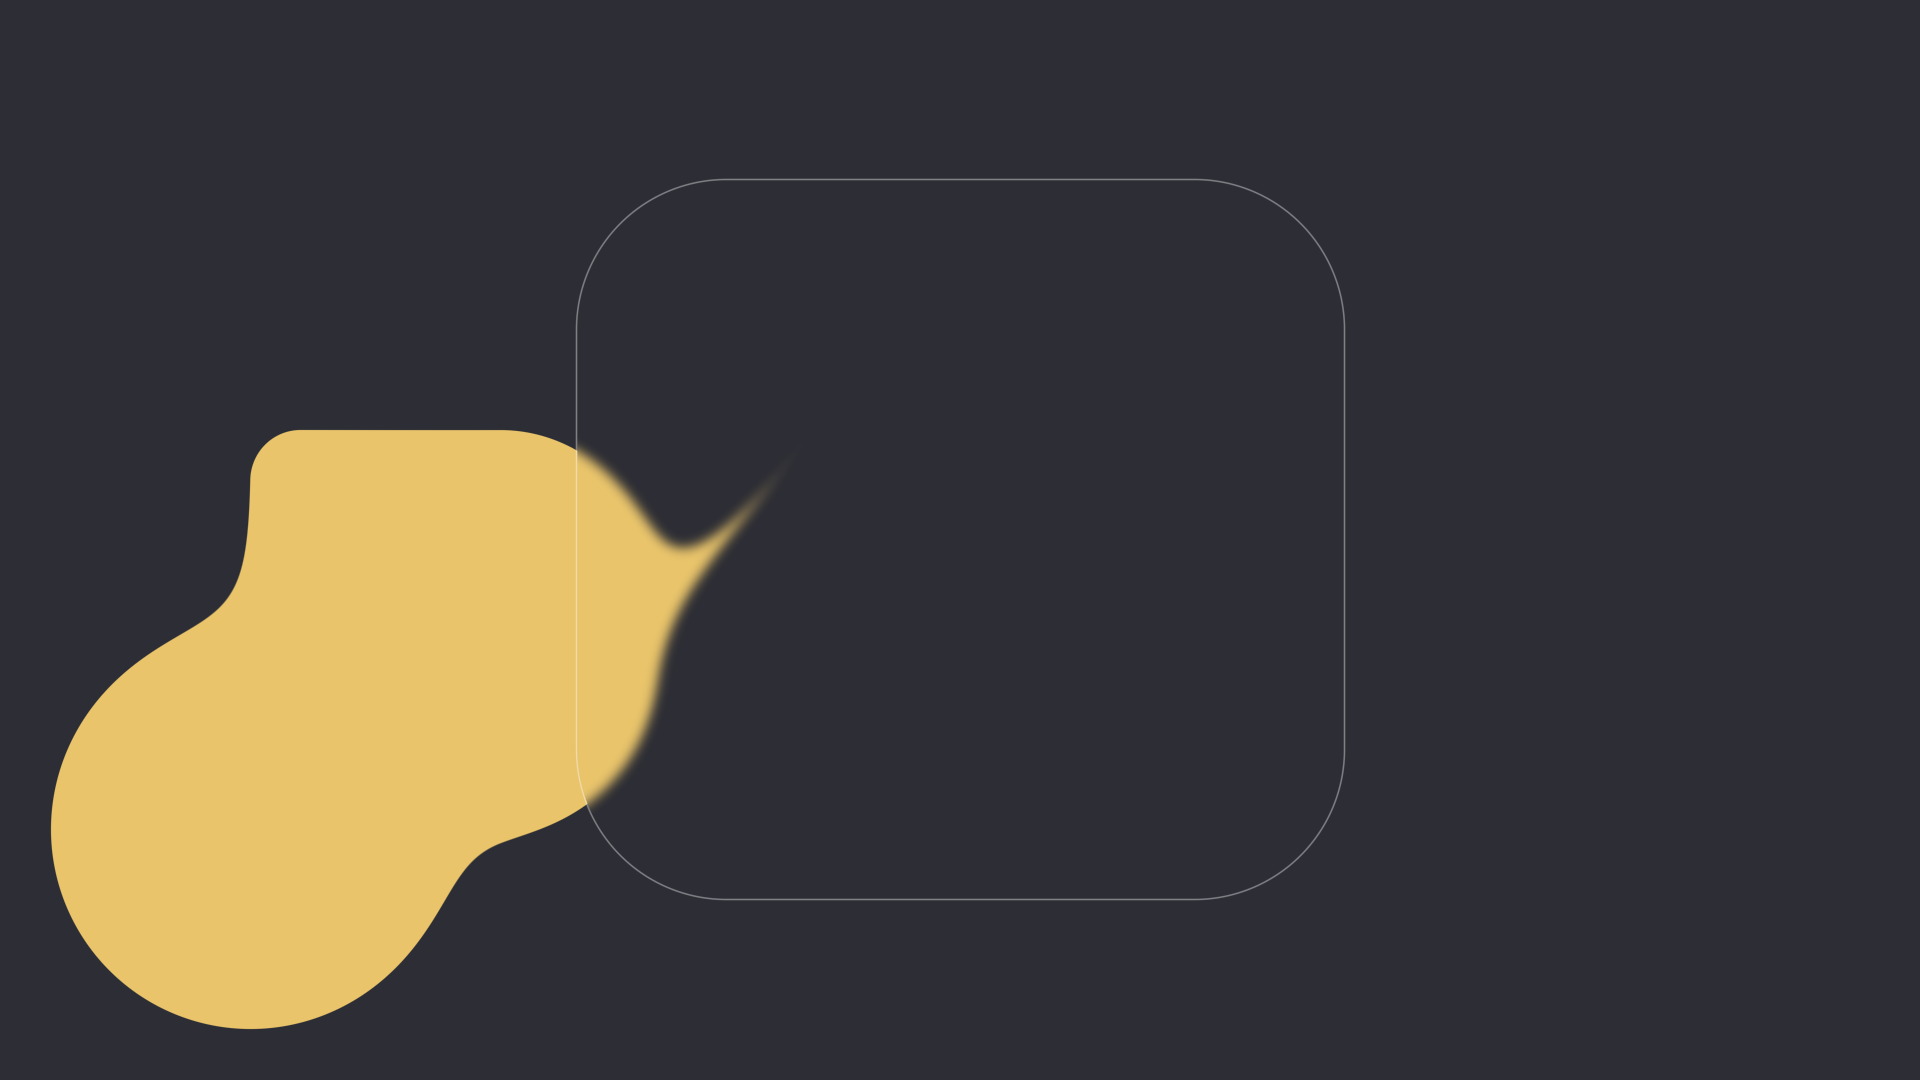
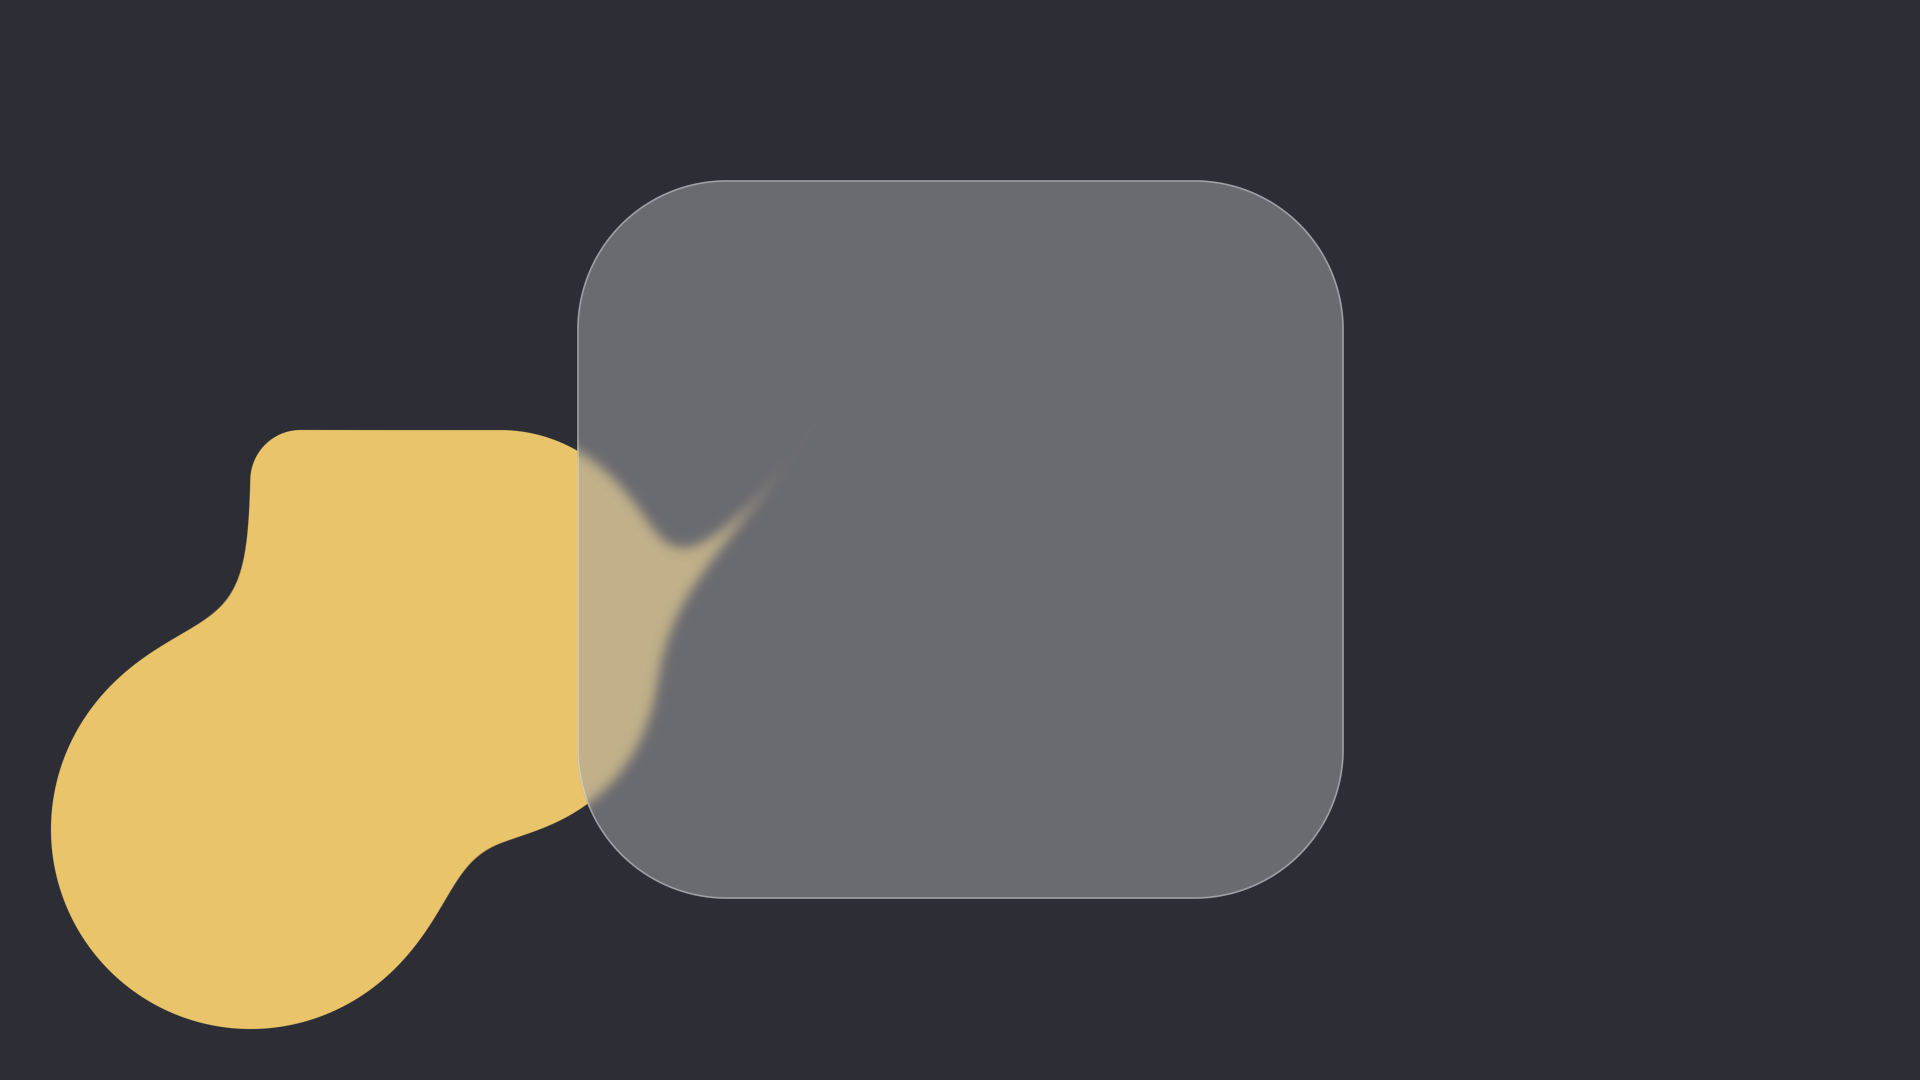
Add more examples, refactor code

Changed region(s): [[0.2812, 0.1528, 0.7188, 0.8556]]

diff --git a/sandbox.py b/sandbox.py
@@ -8,10 +8,10 @@ with Context(size) as ctx:
 
     bezier = ctx.bezier((900, 800), (700, 400), (350, 350))
 
-    union = ctx.smooth_min(rect, disc, k=0.025)
-    union = ctx.smooth_min(bezier, union, k=0.025)
+    glyph_sdf = ctx.smooth_min(rect, disc, k=0.025)
+    glyph_sdf = ctx.smooth_min(bezier, glyph_sdf, k=0.025)
 
-    layer = ctx.fill(union, hex_col("#e9c46a"), hex_col("#2C2D35"), 0)
+    layer = ctx.fill(glyph_sdf, hex_col("#e9c46a"), hex_col("#2C2D35"), 0)
     blur = ctx.blur(layer, 10)
 
     mask_sdf = ctx.rounded_rect((int(size[0] / 2), int(size[1] / 2)), (int(size[0] / 5), int(size[1] / 3)),
@@ -19,50 +19,32 @@ with Context(size) as ctx:
 
     mask_layer = ctx.fill(mask_sdf, (.0, .0, .0, 1.0), (1.0, 1.0, 1.0, 1.0), 0)
 
-    overlay_outline = ctx.outline(mask_sdf, (1.0, 1.0, 1.0, .25), (0.75, 0.75, 0.75, 0.0))
+    overlay_outline = ctx.outline(mask_sdf, (1.0, 1.0, 1.0, .25), (0.75, 0.75, 0.75, 0.0), inflate=-1.5)
+
+    glass = ctx.fill(mask_sdf, (44 / 255 + 0.15, 45 / 255 + 0.15, 53 / 255 + 0.15, 0.4), (0.0, 0.0, 0.0, 0.0), 0)
 
     masked = ctx.mask(blur, layer, mask_layer)
-    overlayed = ctx.overlay(overlay_outline, masked)
+    overlay = ctx.overlay(glass, masked)
+    overlay = ctx.overlay(overlay_outline, overlay)
 
-    overlayed.save("image1.png")
+    overlay.save("image1.png")
+    overlay.show()
 
+with Context((1920, 1080)) as ctx:
+    scale = 0.65
+    offset_x = 50
+    offset_y = 50
 
-def collinear(x1, y1, x2, y2, x3, y3):
-    area = abs(x1 * (y2 - y3) + x2 * (y3 - y1) + x3 * (y1 - y2))
+    glyph_sdf = ctx.glyph("M", scale, offset_x, offset_y)
 
-    return area <= 0.000000001
+    layer = ctx.fill(glyph_sdf, hex_col("#e9c46a"), (0.0, 0.0, 0.0, 0.0), 7.5)
+    bg = ctx.fill(glyph_sdf, hex_col("#2C2D35"), hex_col("#2C2D35"), 7.5)
 
+    mask = ctx.fill(glyph_sdf, (0.0, 0.0, 0.0, 1.0), (0.0, 0.0, 0.0, 0.0), 7.5)
+    shadow = ctx.blur(mask, 5)
+    with_shadow = ctx.overlay(layer, shadow)
 
-with Context(size) as ctx:
-    control_points = ctx.get_glyph("fonts/SFUIDisplay-Bold.ttf", "A")
+    overlay = ctx.overlay(with_shadow, bg)
 
-    scale = 0.45
-    offx = 250
-    offy = 150
-
-    union = None
-
-    for x, shape in enumerate(control_points):
-        for y, stroke in enumerate(shape):
-            ax, ay = stroke[0][0] * scale + offx, stroke[0][1] * scale + offy
-            bx, by = stroke[1][0] * scale + offx, stroke[1][1] * scale + offy
-            cx, cy = stroke[2][0] * scale + offx, stroke[2][1] * scale + offy
-
-            bezier = None
-
-            a = (ax, ay)
-            b = (bx, by)
-            c = (cx, cy)
-
-            if not collinear(ax, ay, bx, by, cx, cy):
-                bezier = ctx.bezier(a, b, c)
-            else:
-                bezier = ctx.line(a, c)
-
-            if y == 0 and x == 0:
-                union = bezier
-            else:
-                union = ctx.union(union, bezier)
-
-    layer = ctx.fill(union, hex_col("#e9c46a"), hex_col("#2C2D35"), 1.25)
-    layer.save("image2.png")
+    overlay.show()
+    overlay.save("image2.png")

diff --git a/framework/context.py b/framework/context.py
@@ -303,6 +303,33 @@ class Context:
 
         return Layer(initial=initial)
 
+    def glyph(self, glyph, scale, ox, oy, path="fonts/SFUIDisplay-Bold.ttf"):
+        control_points = self._get_glyph(path, glyph)
+
+        union_sdf = None
+
+        for x, shape in enumerate(control_points):
+            for y, stroke in enumerate(shape):
+                ax, ay = stroke[0][0] * scale + ox, stroke[0][1] * scale + oy
+                bx, by = stroke[1][0] * scale + ox, stroke[1][1] * scale + oy
+                cx, cy = stroke[2][0] * scale + ox, stroke[2][1] * scale + oy
+
+                a = (ax, ay)
+                b = (bx, by)
+                c = (cx, cy)
+
+                if not self._collinear(ax, ay, bx, by, cx, cy):
+                    bezier_sdf = self.bezier(a, b, c)
+                else:
+                    bezier_sdf = self.line(a, c)
+
+                if y == 0 and x == 0:
+                    union_sdf = bezier_sdf
+                else:
+                    union_sdf = self.union(union_sdf, bezier_sdf)
+
+        return union_sdf
+
     # Postprocessing
     def blur(self, layer: Layer, n=0):
         def initial():
@@ -382,7 +409,7 @@ class Context:
         return Layer(initial=initial)
 
     @staticmethod
-    def get_glyph(font_file_path, char):
+    def _get_glyph(font_file_path, char):
         font = describe.openFont(font_file_path)
         g = glyph.Glyph(ttfquery.glyphquery.glyphName(font, char))
         ttf_contours = g.calculateContours(font)
@@ -418,6 +445,12 @@ class Context:
             bezier_control_points.append(bezier_curves_control_points)
 
         return bezier_control_points
+
+    @staticmethod
+    def _collinear(x1, y1, x2, y2, x3, y3):
+        area = abs(x1 * (y2 - y3) + x2 * (y3 - y1) + x3 * (y1 - y2))
+
+        return area <= 0.000000001
 
 
 if __name__ == '__main__':

diff --git a/README.md b/README.md
@@ -1,12 +1,12 @@
 # SDF UI
 ___
 
-<img src="./image1.png" width="150" >
-<img src="./image2.png" width="150" >
+<img src="./image1.png" width="150" ><img src="./image2.png" width="150" >
 
 ## Example
 
 ```python
+
 from framework.context import Context, hex_col
 
 size = (1920, 1080)
@@ -17,10 +17,10 @@ with Context(size) as ctx:
 
     bezier = ctx.bezier((900, 800), (700, 400), (350, 350))
 
-    union = ctx.smooth_min(rect, disc, k=0.025)
-    union = ctx.smooth_min(bezier, union, k=0.025)
+    glyph_sdf = ctx.smooth_min(rect, disc, k=0.025)
+    glyph_sdf = ctx.smooth_min(bezier, glyph_sdf, k=0.025)
 
-    layer = ctx.fill(union, hex_col("#e9c46a"), hex_col("#2C2D35"), 0)
+    layer = ctx.fill(glyph_sdf, hex_col("#e9c46a"), hex_col("#2C2D35"), 0)
     blur = ctx.blur(layer, 10)
 
     mask_sdf = ctx.rounded_rect((int(size[0] / 2), int(size[1] / 2)), (int(size[0] / 5), int(size[1] / 3)),
@@ -28,52 +28,34 @@ with Context(size) as ctx:
 
     mask_layer = ctx.fill(mask_sdf, (.0, .0, .0, 1.0), (1.0, 1.0, 1.0, 1.0), 0)
 
-    overlay_outline = ctx.outline(mask_sdf, (1.0, 1.0, 1.0, .25), (0.75, 0.75, 0.75, 0.0))
+    overlay_outline = ctx.outline(mask_sdf, (1.0, 1.0, 1.0, .25), (0.75, 0.75, 0.75, 0.0), inflate=-1.5)
+
+    glass = ctx.fill(mask_sdf, (44 / 255 + 0.15, 45 / 255 + 0.15, 53 / 255 + 0.15, 0.4), (0.0, 0.0, 0.0, 0.0), 0)
 
     masked = ctx.mask(blur, layer, mask_layer)
-    overlayed = ctx.overlay(overlay_outline, masked)
+    overlay = ctx.overlay(glass, masked)
+    overlay = ctx.overlay(overlay_outline, overlay)
 
-    overlayed.save("image1.png")
+    overlay.save("image1.png")
+    overlay.show()
 
+with Context((1920, 1080)) as ctx:
+    scale = 0.65
+    offset_x = 50
+    offset_y = 50
 
-def collinear(x1, y1, x2, y2, x3, y3):
-    area = abs(x1 * (y2 - y3) + x2 * (y3 - y1) + x3 * (y1 - y2))
+    glyph_sdf = ctx.glyph("M", scale, offset_x, offset_y)
 
-    return area <= 0.000000001
+    layer = ctx.fill(glyph_sdf, hex_col("#e9c46a"), (0.0, 0.0, 0.0, 0.0), 7.5)
+    bg = ctx.fill(glyph_sdf, hex_col("#2C2D35"), hex_col("#2C2D35"), 7.5)
 
+    mask = ctx.fill(glyph_sdf, (0.0, 0.0, 0.0, 1.0), (0.0, 0.0, 0.0, 0.0), 7.5)
+    shadow = ctx.blur(mask, 5)
+    with_shadow = ctx.overlay(layer, shadow)
 
-with Context(size) as ctx:
-    control_points = ctx.get_glyph("fonts/SFUIDisplay-Bold.ttf", "A")
+    overlay = ctx.overlay(with_shadow, bg)
 
-    scale = 0.45
-    offx = 250
-    offy = 150
-
-    union = None
-
-    for x, shape in enumerate(control_points):
-        for y, stroke in enumerate(shape):
-            ax, ay = stroke[0][0] * scale + offx, stroke[0][1] * scale + offy
-            bx, by = stroke[1][0] * scale + offx, stroke[1][1] * scale + offy
-            cx, cy = stroke[2][0] * scale + offx, stroke[2][1] * scale + offy
-
-            bezier = None
-
-            a = (ax, ay)
-            b = (bx, by)
-            c = (cx, cy)
-
-            if not collinear(ax, ay, bx, by, cx, cy):
-                bezier = ctx.bezier(a, b, c)
-            else:
-                bezier = ctx.line(a, c)
-
-            if y == 0 and x == 0:
-                union = bezier
-            else:
-                union = ctx.union(union, bezier)
-
-    layer = ctx.fill(union, hex_col("#e9c46a"), hex_col("#2C2D35"), 1.25)
-    layer.save("image2.png")
+    overlay.show()
+    overlay.save("image2.png")
 
 ```
